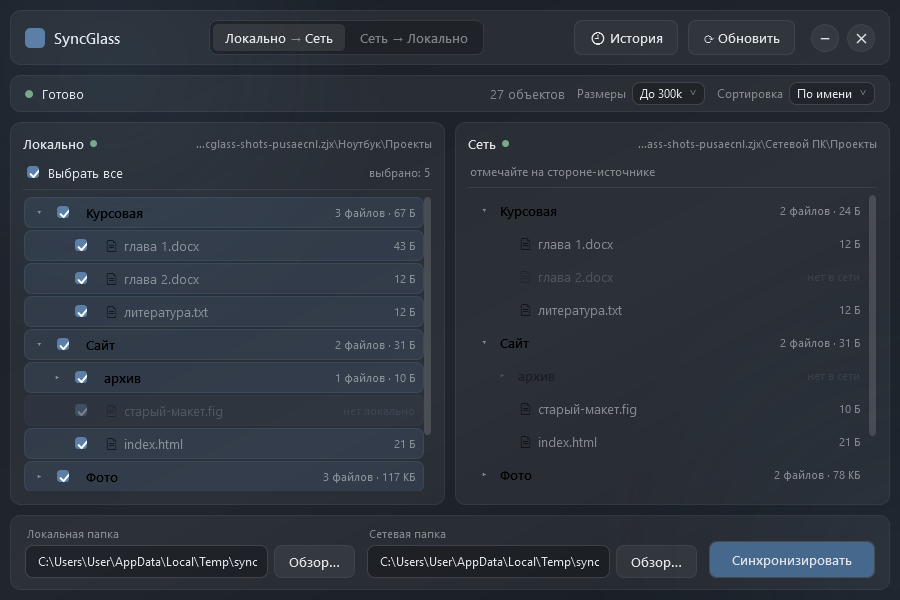
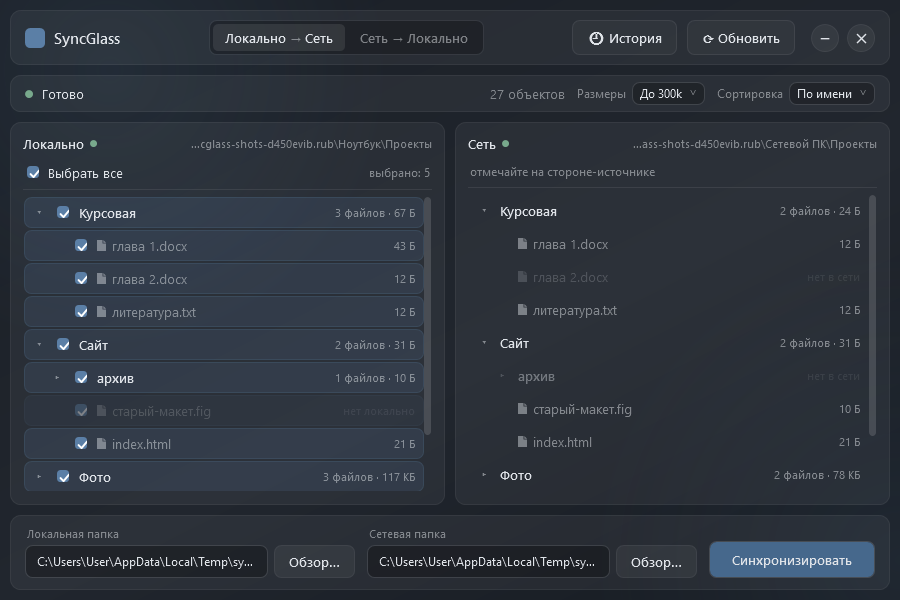
C#: окно как в оригинале - светлый текст в списках, вес шрифта, отступы, поле пути, размытие
- Имена в дереве были чёрными: ListBox брал цвет текста из светлой системной темы.
  Закон WindowTests: на тёмном окне нет тёмного текста (дерево, предпросмотр, история).
- Medium у Segoe UI в WPF нет - SemiBold, как font-weight 500 у Chromium.
- Флажок без подписи держал отступ 7 px под подпись: имя папки уезжало вправо.
  Закон: флажок 16 px, имя через 8 px (styles.css .folder-row).
- Поле пути - многоточие и образец пути в пустом поле, как input readonly.
- Значок файла - залитый лист (цветной эмодзи WPF не рисует).
- Под предпросмотром и историей окно размыто, как backdrop-filter: blur(4px).
- Текст Display + ClearType, как в Paint Pro.

diff --git a/csharp/src/SyncGlass.Wpf/MainWindow.xaml b/csharp/src/SyncGlass.Wpf/MainWindow.xaml
@@ -6,7 +6,7 @@
         Title="SyncGlass" Width="900" Height="600" ResizeMode="CanMinimize"
         WindowStartupLocation="CenterScreen" Background="#1C2128"
         FontFamily="Segoe UI" FontSize="13" Foreground="{StaticResource Text}"
-        TextOptions.TextFormattingMode="Display" UseLayoutRounding="True">
+        TextOptions.TextFormattingMode="Display" TextOptions.TextRenderingMode="ClearType" UseLayoutRounding="True">
 
     <!-- Свой заголовок окна, как в Paint Pro: системная белая полоса убрана, заголовком
          служит верхняя панель (за неё окно и таскается). Рамка Windows осталась - тень,
@@ -93,7 +93,7 @@
 
         <Style x:Key="RowName" TargetType="TextBlock">
             <Setter Property="FontSize" Value="12.5" />
-            <Setter Property="FontWeight" Value="Medium" />
+            <Setter Property="FontWeight" Value="SemiBold" />
             <Setter Property="TextTrimming" Value="CharacterEllipsis" />
             <Setter Property="VerticalAlignment" Value="Center" />
             <Style.Triggers>
@@ -131,16 +131,16 @@
                             </Style>
                         </TextBlock.Style>
                     </TextBlock>
-                    <TextBlock DockPanel.Dock="Left" Text="📄" FontSize="11" Opacity="0.6" Margin="0,0,5,0" VerticalAlignment="Center">
-                        <TextBlock.Style>
-                            <Style TargetType="TextBlock">
+                    <Path DockPanel.Dock="Left" Data="{StaticResource FileIcon}" Fill="{StaticResource Text}" Opacity="0.45" Margin="0,0,6,0" VerticalAlignment="Center">
+                        <Path.Style>
+                            <Style TargetType="Path">
                                 <Style.Triggers>
                                     <DataTrigger Binding="{Binding IsDir}" Value="True"><Setter Property="Visibility" Value="Collapsed" /></DataTrigger>
                                     <DataTrigger Binding="{Binding IsPlaceholder}" Value="True"><Setter Property="Visibility" Value="Collapsed" /></DataTrigger>
                                 </Style.Triggers>
                             </Style>
-                        </TextBlock.Style>
-                    </TextBlock>
+                        </Path.Style>
+                    </Path>
                     <TextBlock Style="{StaticResource RowName}" Text="{Binding Name}" />
                 </DockPanel>
             </Border>
@@ -191,16 +191,16 @@
                             </Style>
                         </TextBlock.Style>
                     </TextBlock>
-                    <TextBlock DockPanel.Dock="Left" Text="📄" FontSize="11" Opacity="0.6" Margin="0,0,5,0" VerticalAlignment="Center">
-                        <TextBlock.Style>
-                            <Style TargetType="TextBlock">
+                    <Path DockPanel.Dock="Left" Data="{StaticResource FileIcon}" Fill="{StaticResource Text}" Opacity="0.45" Margin="0,0,6,0" VerticalAlignment="Center">
+                        <Path.Style>
+                            <Style TargetType="Path">
                                 <Style.Triggers>
                                     <DataTrigger Binding="{Binding IsDir}" Value="True"><Setter Property="Visibility" Value="Collapsed" /></DataTrigger>
                                     <DataTrigger Binding="{Binding IsPlaceholder}" Value="True"><Setter Property="Visibility" Value="Collapsed" /></DataTrigger>
                                 </Style.Triggers>
                             </Style>
-                        </TextBlock.Style>
-                    </TextBlock>
+                        </Path.Style>
+                    </Path>
                     <TextBlock Style="{StaticResource RowName}" Text="{Binding Name}" />
                 </DockPanel>
             </Border>
@@ -300,6 +300,21 @@
         </Canvas>
 
         <Grid Margin="10">
+            <!-- Под окном предпросмотра или истории окно размыто, как backdrop-filter: blur(4px)
+                 у Electron. Размытие только пока открыт слой: за ним окно почти не меняется,
+                 так что пересчёт эффекта редкий (урок Paint Pro про дорогие эффекты). -->
+            <Grid.Style>
+                <Style TargetType="Grid">
+                    <Style.Triggers>
+                        <DataTrigger Binding="{Binding Preview.IsOpen}" Value="True">
+                            <Setter Property="Effect"><Setter.Value><BlurEffect Radius="9" RenderingBias="Performance" /></Setter.Value></Setter>
+                        </DataTrigger>
+                        <DataTrigger Binding="{Binding History.IsOpen}" Value="True">
+                            <Setter Property="Effect"><Setter.Value><BlurEffect Radius="9" RenderingBias="Performance" /></Setter.Value></Setter>
+                        </DataTrigger>
+                    </Style.Triggers>
+                </Style>
+            </Grid.Style>
             <Grid.RowDefinitions>
                 <RowDefinition Height="Auto" />
                 <RowDefinition Height="Auto" />
@@ -345,7 +360,7 @@
                     <DockPanel Margin="14,6">
                         <Ellipse DockPanel.Dock="Left" Style="{StaticResource StatusDot}" Margin="0,0,9,0" />
                         <StackPanel DockPanel.Dock="Right" Orientation="Horizontal">
-                            <TextBlock Text="Размеры" Style="{StaticResource Dim}" VerticalAlignment="Center" Margin="12,0,6,0"
+                            <TextBlock Text="Размеры" Style="{StaticResource Dim}" FontSize="12" VerticalAlignment="Center" Margin="12,0,6,0"
                                        ToolTip="Подсчёт размеров и числа файлов в фоне. «До 300k» — безопасный предел; «Все» — без ограничения (нужно больше памяти)." />
                             <ComboBox x:Name="SizeModeBox" Style="{StaticResource GlassCombo}" SelectedValuePath="Tag"
                                       SelectedValue="{Binding SizeMode, Mode=OneWay}" SelectionChanged="SizeMode_Changed">
@@ -353,7 +368,7 @@
                                 <ComboBoxItem Tag="capped" Content="До 300k" />
                                 <ComboBoxItem Tag="full" Content="Все" />
                             </ComboBox>
-                            <TextBlock Text="Сортировка" Style="{StaticResource Dim}" VerticalAlignment="Center" Margin="12,0,6,0" ToolTip="Порядок в дереве" />
+                            <TextBlock Text="Сортировка" Style="{StaticResource Dim}" FontSize="12" VerticalAlignment="Center" Margin="12,0,6,0" ToolTip="Порядок в дереве" />
                             <ComboBox x:Name="SortBox" Style="{StaticResource GlassCombo}" SelectedValuePath="Tag"
                                       SelectedValue="{Binding Sort, Mode=OneWay}" SelectionChanged="Sort_Changed">
                                 <ComboBoxItem Tag="name" Content="По имени" />
@@ -468,14 +483,14 @@
                         <TextBlock Text="Локальная папка" FontSize="11" Foreground="{StaticResource TextDim}" Margin="2,0,0,5" />
                         <DockPanel>
                             <Button DockPanel.Dock="Right" Style="{StaticResource GlassButton}" Content="Обзор…" Margin="6,0,0,0" Tag="local" Click="Pick_Click" />
-                            <TextBox Style="{StaticResource PathBox}" Text="{Binding LocalPath, Mode=OneWay}" />
+                            <ContentControl Style="{StaticResource PathBox}" Content="{Binding LocalPath}" />
                         </DockPanel>
                     </StackPanel>
                     <StackPanel Grid.Column="2">
                         <TextBlock Text="Сетевая папка" FontSize="11" Foreground="{StaticResource TextDim}" Margin="2,0,0,5" />
                         <DockPanel>
                             <Button DockPanel.Dock="Right" Style="{StaticResource GlassButton}" Content="Обзор…" Margin="6,0,0,0" Tag="network" Click="Pick_Click" />
-                            <TextBox Style="{StaticResource PathBox}" Text="{Binding NetworkPath, Mode=OneWay}" />
+                            <ContentControl Style="{StaticResource PathBox}" Content="{Binding NetworkPath}" />
                         </DockPanel>
                     </StackPanel>
                     <Button Grid.Column="4" Style="{StaticResource PrimaryButton}" Content="Синхронизировать" VerticalAlignment="Bottom"

diff --git a/csharp/src/SyncGlass.Wpf/Glass.xaml b/csharp/src/SyncGlass.Wpf/Glass.xaml
@@ -26,6 +26,10 @@
     <SolidColorBrush x:Key="WarnBg" Color="#1FB39A63" />
     <SolidColorBrush x:Key="WarnBorder" Color="#4DB39A63" />
 
+    <!-- Значок файла в дереве. В Electron это цветной эмодзи 📄 - WPF цветные шрифты не
+         рисует, контурный 📄 выглядел иначе; здесь залитый лист с загнутым углом. -->
+    <Geometry x:Key="FileIcon">M0,0 H5.5 V3.5 H9 V11 H0 Z M6.3,0 L9,2.7 H6.3 Z</Geometry>
+
     <!-- Стеклянная поверхность -->
     <Style x:Key="Glass" TargetType="Border">
         <Setter Property="Background" Value="{StaticResource GlassBg}" />
@@ -48,7 +52,7 @@
         <Setter Property="BorderThickness" Value="1" />
         <Setter Property="Padding" Value="14,7" />
         <Setter Property="FontSize" Value="12.5" />
-        <Setter Property="FontWeight" Value="Medium" />
+        <Setter Property="FontWeight" Value="SemiBold" />
         <Setter Property="Cursor" Value="Hand" />
         <Setter Property="FocusVisualStyle" Value="{x:Null}" />
         <Setter Property="Template">
@@ -103,7 +107,7 @@
         <Setter Property="WindowChrome.IsHitTestVisibleInChrome" Value="True" />
         <Setter Property="Foreground" Value="{StaticResource TextDim}" />
         <Setter Property="FontSize" Value="12.5" />
-        <Setter Property="FontWeight" Value="Medium" />
+        <Setter Property="FontWeight" Value="SemiBold" />
         <Setter Property="Cursor" Value="Hand" />
         <Setter Property="FocusVisualStyle" Value="{x:Null}" />
         <Setter Property="Template">
@@ -141,9 +145,14 @@
                                 <Rectangle x:Name="Dash" Width="8" Height="2" RadiusX="1" RadiusY="1" Fill="White" Visibility="Collapsed" />
                             </Grid>
                         </Border>
-                        <ContentPresenter Margin="7,0,0,0" VerticalAlignment="Center" />
+                        <ContentPresenter x:Name="Label" Margin="7,0,0,0" VerticalAlignment="Center" />
                     </StackPanel>
                     <ControlTemplate.Triggers>
+                        <!-- Флажок строки дерева без подписи: отступ под подпись раздвигал
+                             строку (16 + 7 вместо 16), имя папки уезжало вправо от Electron. -->
+                        <Trigger Property="HasContent" Value="False">
+                            <Setter TargetName="Label" Property="Margin" Value="0" />
+                        </Trigger>
                         <Trigger Property="IsChecked" Value="True">
                             <Setter TargetName="Box" Property="Background" Value="{StaticResource Accent}" />
                             <Setter TargetName="Box" Property="BorderBrush" Value="Transparent" />
@@ -241,17 +250,31 @@
         </Setter>
     </Style>
 
-    <!-- Поле пути: утопленное, только для чтения -->
-    <Style x:Key="PathBox" TargetType="TextBox">
-        <Setter Property="IsReadOnly" Value="True" />
+    <!-- Поле пути: утопленное, только для чтения (в Electron - input readonly). Длинный
+         путь обрезается многоточием, целиком - в подсказке; пустое поле показывает
+         образец пути, как placeholder. -->
+    <Style x:Key="PathBox" TargetType="ContentControl">
         <Setter Property="Foreground" Value="{StaticResource Text}" />
         <Setter Property="FontSize" Value="12" />
+        <Setter Property="Focusable" Value="False" />
+        <Setter Property="ToolTip" Value="{Binding Content, RelativeSource={RelativeSource Self}}" />
         <Setter Property="Template">
             <Setter.Value>
-                <ControlTemplate TargetType="TextBox">
-                    <Border Background="#47000000" BorderBrush="{StaticResource GlassBorder}" BorderThickness="1" CornerRadius="7" Padding="10,7">
-                        <ScrollViewer x:Name="PART_ContentHost" VerticalAlignment="Center" />
+                <ControlTemplate TargetType="ContentControl">
+                    <Border Background="#47000000" BorderBrush="{StaticResource GlassBorder}" BorderThickness="1" CornerRadius="7" Padding="11,8">
+                        <Grid>
+                            <TextBlock x:Name="Hint" Text="C:\Users\...\Documents" Foreground="#59DFE3E8" Visibility="Collapsed" />
+                            <TextBlock Text="{TemplateBinding Content}" TextTrimming="CharacterEllipsis" />
+                        </Grid>
                     </Border>
+                    <ControlTemplate.Triggers>
+                        <Trigger Property="Content" Value="{x:Null}">
+                            <Setter TargetName="Hint" Property="Visibility" Value="Visible" />
+                        </Trigger>
+                        <Trigger Property="Content" Value="">
+                            <Setter TargetName="Hint" Property="Visibility" Value="Visible" />
+                        </Trigger>
+                    </ControlTemplate.Triggers>
                 </ControlTemplate>
             </Setter.Value>
         </Setter>
@@ -271,6 +294,9 @@
         </Setter>
     </Style>
     <Style x:Key="PlainList" TargetType="ListBox">
+        <!-- Цвет текста задан явно: иначе список берёт его из светлой системной темы, и
+             имена папок выходили чёрными на тёмном стекле (закон - WindowTests). -->
+        <Setter Property="Foreground" Value="{StaticResource Text}" />
         <Setter Property="Background" Value="Transparent" />
         <Setter Property="BorderThickness" Value="0" />
         <Setter Property="Padding" Value="0" />

diff --git a/csharp/tests/SyncGlass.Tests/WindowTests.cs b/csharp/tests/SyncGlass.Tests/WindowTests.cs
@@ -1,0 +1,159 @@
+using System.Windows;
+using System.Windows.Controls;
+using System.Windows.Media;
+using System.Windows.Threading;
+using SyncGlass.Core;
+using SyncGlass.Core.Main;
+using SyncGlass.Ui;
+using SyncGlass.Wpf;
+
+namespace SyncGlass.Tests;
+
+// Настоящее окно WPF в тестах: одно приложение на процесс, свой поток STA со своим
+// диспетчером (WPF не терпит второго Application в том же домене).
+internal static class WpfHost
+{
+    private static readonly Lazy<Dispatcher> Ui = new(() =>
+    {
+        Dispatcher? d = null;
+        using var ready = new ManualResetEventSlim();
+        var t = new Thread(() =>
+        {
+            var app = new App();
+            app.InitializeComponent(); // стили Glass.xaml
+            d = Dispatcher.CurrentDispatcher;
+            ready.Set();
+            Dispatcher.Run();
+        }) { IsBackground = true };
+        t.SetApartmentState(ApartmentState.STA);
+        t.Start();
+        ready.Wait();
+        return d!;
+    });
+
+    public static Task Run(Func<Task> body) => Ui.Value.InvokeAsync(body).Task.Unwrap();
+}
+
+[Collection("Окно")] // окно одно на процесс - тесты окна по очереди
+public class WindowTests
+{
+    private static ListItem Dto(string relPath, bool isDir = true, bool local = true, bool network = true)
+        => new(relPath.Split('/')[^1], relPath, isDir, local, network, 0);
+
+    private static FakeApi DemoApi() => new()
+    {
+        SettingsAnswer = new AppSettings { LocalPath = @"C:\Ноутбук\Проекты", NetworkPath = @"\\ПК\Проекты", Direction = "toNetwork", Sort = "name", SizeMode = "off" },
+        List = rel => rel == "Курсовая"
+            ? new ListResult([Dto("Курсовая/глава 1.docx", false), Dto("Курсовая/лишнее.txt", false, local: false)], true, true)
+            : new ListResult([Dto("Курсовая"), Dto("Сайт"), Dto("заметки.md", false)], true, true),
+        PreviewAnswer = new PreviewResult([new FolderCount("Курсовая", new Summary(0, 1, 0, 1, 0, 0, 2))], new Summary(0, 1, 0, 1, 0, 0, 2), ["закрыто"], 1),
+        HistoryAnswer = [new HistoryRun { Time = "2026-09-26T10:00:00.000Z", Direction = "toNetwork", Totals = new HistoryTotals { Copy = 1, Trash = 1 }, Failures = 1, Files = [new("copy", "Курсовая/глава 1.docx")] }],
+    };
+
+    // Яркость цвета поверх тёмного фона окна (#1C2128), 0 - чёрный, 1 - белый.
+    private static double Luminance(Color c)
+    {
+        double Mix(byte fg, byte bg) => (fg * c.A + bg * (255 - c.A)) / 255.0 / 255.0;
+        return 0.2126 * Mix(c.R, 0x1C) + 0.7152 * Mix(c.G, 0x21) + 0.0722 * Mix(c.B, 0x28);
+    }
+
+    private static IEnumerable<DependencyObject> Tree(DependencyObject root)
+    {
+        var stack = new Stack<DependencyObject>();
+        stack.Push(root);
+        while (stack.Count > 0)
+        {
+            var d = stack.Pop();
+            yield return d;
+            for (var i = VisualTreeHelper.GetChildrenCount(d) - 1; i >= 0; i--) stack.Push(VisualTreeHelper.GetChild(d, i));
+        }
+    }
+
+    // Закон: на тёмном окне нет тёмного текста - ни в дереве, ни в предпросмотре, ни
+    // в истории. Нашёл Алексей на снимке 26.09.2026: имена папок в дереве были чёрными -
+    // список (ListBox) берёт цвет текста из светлой системной темы, если его не задать.
+    // Закон спрашивает не одно место, а всё, что видно на экране.
+    [Fact]
+    public async Task на_тёмном_окне_нет_тёмного_текста()
+    {
+        var тёмные = new List<string>();
+        var проверено = 0;
+        await WpfHost.Run(async () =>
+        {
+            var api = DemoApi();
+            var vm = new MainViewModel(api);
+            var win = new MainWindow { PlacementFile = null, ShowActivated = false, WindowStartupLocation = WindowStartupLocation.Manual, Left = -3000, Top = 0 };
+            win.Attach(vm, null);
+            win.Show();
+            try
+            {
+                for (var i = 0; i < 100 && vm.Rows.Count < 3; i++) await Task.Delay(20);
+                await vm.ToggleExpand(vm.Roots.Single(n => n.Name == "Курсовая"));
+                vm.ToggleCheck(vm.Roots.Single(n => n.Name == "Курсовая"));
+                await vm.Preview.Open();
+                await vm.History.Open();
+                vm.History.Toggle(vm.History.Runs[0]);
+                win.UpdateLayout();
+                await Task.Delay(50);
+                win.UpdateLayout();
+
+                foreach (var tb in Tree(win).OfType<TextBlock>())
+                {
+                    if (!tb.IsVisible || string.IsNullOrWhiteSpace(tb.Text)) continue;
+                    проверено++;
+                    if (tb.Foreground is SolidColorBrush b && Luminance(b.Color) < 0.3)
+                        тёмные.Add($"«{tb.Text}» ({b.Color})");
+                }
+            }
+            finally
+            {
+                win.Close();
+            }
+        });
+        Assert.True(проверено > 30, $"проверено всего {проверено} надписей - окно не наполнилось");
+        Assert.True(тёмные.Count == 0, "тёмный текст на тёмном окне: " + string.Join(", ", тёмные.Distinct()));
+    }
+
+    // Закон: строка дерева разложена как в Electron (styles.css: .folder-row gap 8px,
+    // флажок 16px). Нашлось сравнением кадров 26.09.2026: у флажка без подписи оставался
+    // отступ под подпись, флажок занимал 23 px, и имя папки уезжало вправо. И длинный
+    // путь внизу окна обрезается многоточием, как text-overflow: ellipsis, а не молча.
+    [Fact]
+    public async Task строка_дерева_и_поле_пути_как_в_Electron()
+    {
+        double флажок = 0, отступИмени = 0;
+        var обрезка = TextTrimming.None;
+        await WpfHost.Run(async () =>
+        {
+            var api = DemoApi();
+            api.SettingsAnswer!.LocalPath = @"C:\Users\Алексей\Documents\очень\длинный\путь\до\папки\с\проектами\и\ещё\глубже";
+            var vm = new MainViewModel(api);
+            var win = new MainWindow { PlacementFile = null, ShowActivated = false, WindowStartupLocation = WindowStartupLocation.Manual, Left = -3000, Top = 0 };
+            win.Attach(vm, null);
+            win.Show();
+            try
+            {
+                for (var i = 0; i < 100 && vm.Rows.Count < 3; i++) await Task.Delay(20);
+                win.UpdateLayout();
+                var имя = Tree(win).OfType<TextBlock>().First(t => t.Text == "Курсовая" && t.IsVisible);
+                var строка = (Panel)VisualTreeHelper.GetParent(имя);
+                var box = строка.Children.OfType<CheckBox>().Single();
+                флажок = box.ActualWidth;
+                отступИмени = имя.TranslatePoint(new Point(), box).X;
+
+                var путь = Tree(win).OfType<TextBlock>().First(t => t.Text == api.SettingsAnswer.LocalPath);
+                обрезка = путь.TextTrimming;
+            }
+            finally
+            {
+                win.Close();
+            }
+        });
+        Assert.Equal(16, флажок);
+        Assert.Equal(16 + 8, отступИмени);
+        Assert.Equal(TextTrimming.CharacterEllipsis, обрезка);
+    }
+}
+
+[CollectionDefinition("Окно", DisableParallelization = true)]
+public class WindowCollection;
